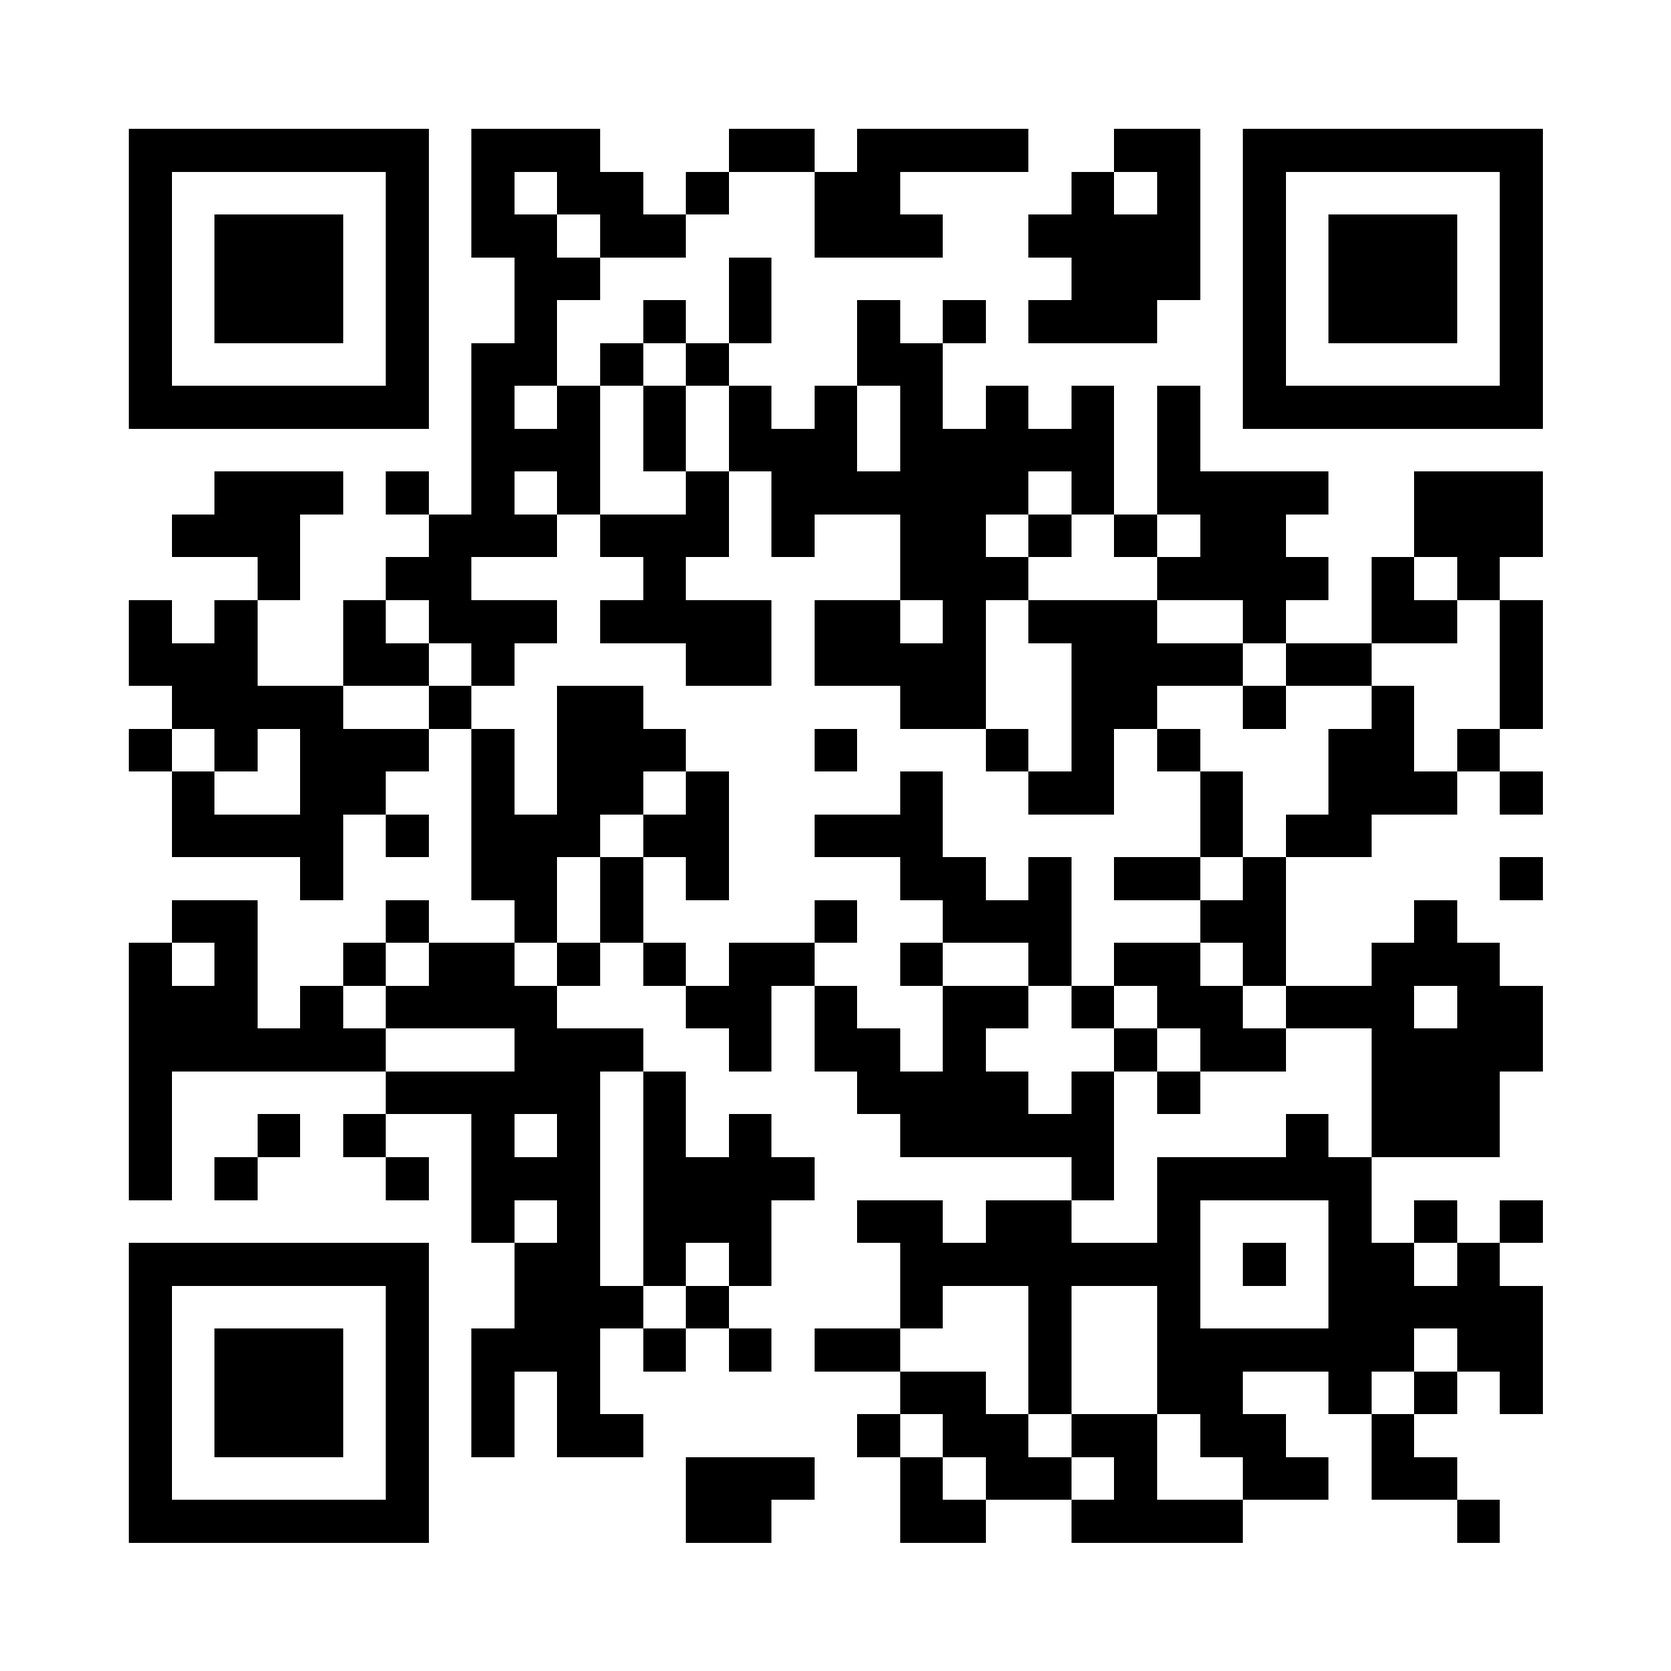
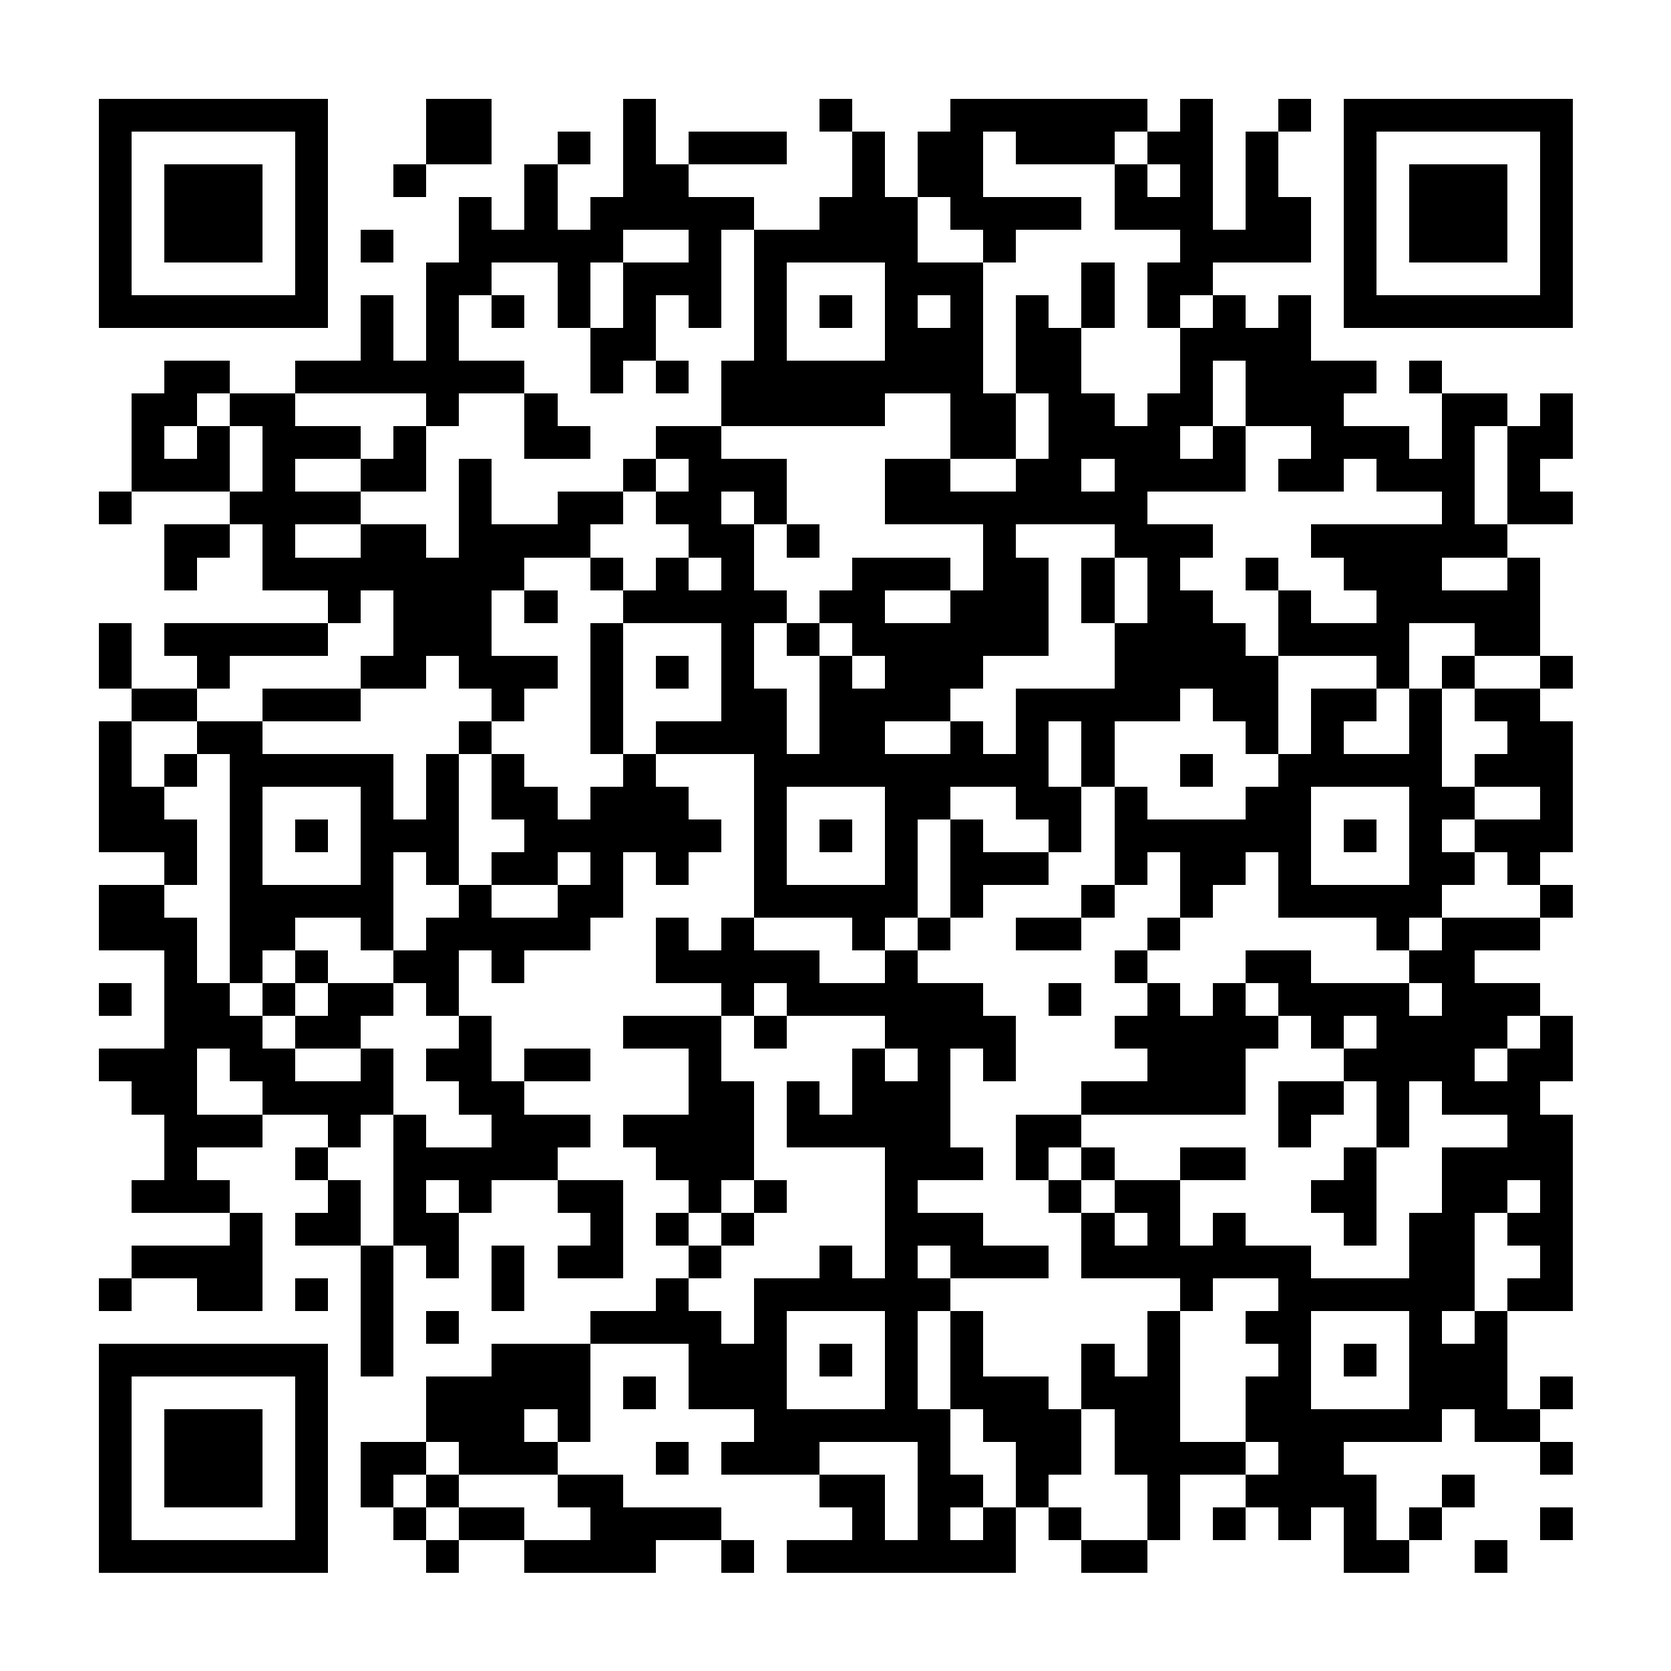
Lead with the mailing list, and land people on the actual sign-up box
Two things Juanito asked for, read properly this time. "That should be
kind of at the top and large" was about the page as much as the printed
signs — and with presales off, signing people up IS the job of this
page, so it had no business sitting fourth, below the price list and the
payment buttons. The gold button now comes straight after the header,
the only filled element above the fold. emailFirst in config.js puts it
back down if that turns out wrong at the booth.

The link also just dropped people at the top of juanitopascual.com/contact
and left them to scroll — the Email List Sign-up block is 59% down that
page. Linking the anchor lands them on the form. If he ever rebuilds the
site and that id stops matching, the link behaves exactly as it did
before, so this can only help.

Audited every tappable thing while in here: all seven are 47px or taller
against a 44px floor, no dead or placeholder hrefs, every outbound link
resolves to the right destination, and the Copy button writes
jp@jpascual.com, flips to "Copied" and fires the toast. Decoded all six
QR images rather than trusting the encoder — each one scans to the URL it
should. Only the email code changed; booth and venmo are byte-identical,
and the already-printed email code still works, it just lands higher.

diff --git a/print/index.html b/print/index.html
@@ -203,13 +203,13 @@
       </div>
     </section>
     <section class="code">
-      <div class="qrbox"><svg xmlns="http://www.w3.org/2000/svg" width="1000" height="1000" viewBox="0 0 39 39" shape-rendering="crispEdges"><path fill="#FFFFFF" d="M0 0h39v39H0z"/><path stroke="#000000" d="M3 3.5h7m1 0h3m3 0h2m1 0h4m2 0h2m1 0h7M3 4.5h1m5 0h1m1 0h1m1 0h2m1 0h1m2 0h2m4 0h1m1 0h1m1 0h1m5 0h1M3 5.5h1m1 0h3m1 0h1m1 0h2m1 0h2m3 0h3m2 0h4m1 0h1m1 0h3m1 0h1M3 6.5h1m1 0h3m1 0h1m2 0h2m3 0h1m7 0h3m1 0h1m1 0h3m1 0h1M3 7.5h1m1 0h3m1 0h1m2 0h1m2 0h1m1 0h1m2 0h1m1 0h1m1 0h3m2 0h1m1 0h3m1 0h1M3 8.5h1m5 0h1m1 0h2m1 0h1m1 0h1m3 0h2m7 0h1m5 0h1M3 9.5h7m1 0h1m1 0h1m1 0h1m1 0h1m1 0h1m1 0h1m1 0h1m1 0h1m1 0h1m1 0h7M11 10.5h3m1 0h1m1 0h3m1 0h5m1 0h1M5 11.5h3m1 0h1m1 0h1m1 0h1m2 0h1m1 0h6m1 0h1m1 0h4m2 0h3M4 12.5h3m3 0h3m1 0h3m1 0h1m2 0h2m1 0h1m1 0h1m1 0h2m3 0h3M6 13.5h1m2 0h2m4 0h1m5 0h3m3 0h4m1 0h1m1 0h1M3 14.5h1m1 0h1m2 0h1m1 0h3m1 0h4m1 0h2m1 0h1m1 0h3m2 0h1m2 0h2m1 0h1M3 15.5h3m2 0h2m1 0h1m4 0h2m1 0h4m2 0h4m1 0h2m3 0h1M4 16.5h4m2 0h1m2 0h2m6 0h2m2 0h2m2 0h1m2 0h1m2 0h1M3 17.5h1m1 0h1m1 0h3m1 0h1m1 0h3m3 0h1m3 0h1m1 0h1m1 0h1m3 0h2m1 0h1M4 18.5h1m2 0h2m2 0h1m1 0h2m1 0h1m4 0h1m2 0h2m2 0h1m2 0h3m1 0h1M4 19.5h4m1 0h1m1 0h3m1 0h2m2 0h3m6 0h1m1 0h2M7 20.5h1m3 0h2m1 0h1m1 0h1m4 0h2m1 0h1m1 0h2m1 0h1m5 0h1M4 21.5h2m3 0h1m2 0h1m1 0h1m4 0h1m2 0h3m3 0h2m3 0h1M3 22.5h1m1 0h1m2 0h1m1 0h2m1 0h1m1 0h1m1 0h2m2 0h1m2 0h1m1 0h2m1 0h1m2 0h3M3 23.5h3m1 0h1m1 0h4m3 0h2m1 0h1m2 0h2m1 0h1m1 0h2m1 0h3m1 0h2M3 24.5h6m3 0h3m2 0h1m1 0h2m1 0h1m3 0h1m1 0h2m2 0h4M3 25.5h1m5 0h5m1 0h1m4 0h4m1 0h1m1 0h1m4 0h3M3 26.5h1m2 0h1m1 0h1m2 0h1m1 0h1m1 0h1m1 0h1m3 0h5m4 0h1m1 0h3M3 27.5h1m1 0h1m3 0h1m1 0h3m1 0h4m6 0h1m1 0h5M11 28.5h1m1 0h1m1 0h3m2 0h2m1 0h2m2 0h1m3 0h1m1 0h1m1 0h1M3 29.5h7m2 0h2m1 0h1m1 0h1m3 0h7m1 0h1m1 0h2m1 0h1M3 30.5h1m5 0h1m2 0h3m1 0h1m4 0h1m2 0h1m2 0h1m3 0h5M3 31.5h1m1 0h3m1 0h1m1 0h3m1 0h1m1 0h1m1 0h2m3 0h1m2 0h6m1 0h2M3 32.5h1m1 0h3m1 0h1m1 0h1m1 0h1m7 0h2m1 0h1m2 0h2m2 0h1m1 0h1m1 0h1M3 33.5h1m1 0h3m1 0h1m1 0h1m1 0h2m5 0h1m1 0h2m1 0h2m1 0h2m2 0h1M3 34.5h1m5 0h1m6 0h3m2 0h1m1 0h2m1 0h1m2 0h2m1 0h2M3 35.5h7m6 0h2m3 0h2m2 0h4m5 0h1"/></svg>
+      <div class="qrbox"><svg xmlns="http://www.w3.org/2000/svg" width="1000" height="1000" viewBox="0 0 51 51" shape-rendering="crispEdges"><path fill="#FFFFFF" d="M0 0h51v51H0z"/><path stroke="#000000" d="M3 3.5h7m3 0h2m4 0h1m5 0h1m3 0h6m1 0h1m2 0h1m1 0h7M3 4.5h1m5 0h1m3 0h2m2 0h1m1 0h1m1 0h3m2 0h1m1 0h2m1 0h3m1 0h2m1 0h1m2 0h1m5 0h1M3 5.5h1m1 0h3m1 0h1m2 0h1m3 0h1m2 0h2m5 0h1m1 0h2m4 0h1m1 0h1m1 0h1m2 0h1m1 0h3m1 0h1M3 6.5h1m1 0h3m1 0h1m4 0h1m1 0h1m1 0h5m2 0h3m1 0h4m1 0h3m1 0h2m1 0h1m1 0h3m1 0h1M3 7.5h1m1 0h3m1 0h1m1 0h1m2 0h5m2 0h1m1 0h5m2 0h1m5 0h4m1 0h1m1 0h3m1 0h1M3 8.5h1m5 0h1m3 0h2m2 0h1m1 0h3m1 0h1m3 0h3m3 0h1m1 0h2m4 0h1m5 0h1M3 9.5h7m1 0h1m1 0h1m1 0h1m1 0h1m1 0h1m1 0h1m1 0h1m1 0h1m1 0h1m1 0h1m1 0h1m1 0h1m1 0h1m1 0h1m1 0h1m1 0h7M11 10.5h1m1 0h1m4 0h2m3 0h1m3 0h3m1 0h2m3 0h4M5 11.5h2m2 0h7m2 0h1m1 0h1m1 0h8m1 0h2m3 0h1m1 0h4m1 0h1M4 12.5h2m1 0h2m4 0h1m2 0h1m5 0h5m2 0h2m1 0h2m1 0h2m1 0h3m3 0h2m1 0h1M4 13.5h1m1 0h1m1 0h3m1 0h1m3 0h2m2 0h2m7 0h2m1 0h4m1 0h1m2 0h3m1 0h1m1 0h2M4 14.5h3m1 0h1m2 0h2m1 0h1m4 0h1m1 0h3m3 0h2m2 0h2m1 0h4m1 0h2m1 0h3m1 0h1M3 15.5h1m3 0h4m3 0h1m2 0h2m1 0h2m1 0h1m3 0h8m9 0h1m1 0h2M5 16.5h2m1 0h1m2 0h2m1 0h4m3 0h2m1 0h1m5 0h1m3 0h3m3 0h6M5 17.5h1m2 0h8m2 0h1m1 0h1m1 0h1m3 0h3m1 0h2m1 0h1m1 0h1m2 0h1m2 0h3m2 0h1M10 18.5h1m1 0h3m1 0h1m2 0h5m1 0h2m2 0h3m1 0h1m1 0h2m2 0h1m2 0h5M3 19.5h1m1 0h5m2 0h3m3 0h1m3 0h1m1 0h1m1 0h6m2 0h4m1 0h4m2 0h2M3 20.5h1m2 0h1m4 0h2m1 0h3m1 0h1m1 0h1m1 0h1m2 0h1m1 0h3m4 0h5m3 0h1m1 0h1m2 0h1M4 21.5h2m2 0h3m4 0h1m2 0h1m3 0h2m1 0h4m2 0h5m1 0h2m1 0h2m1 0h1m1 0h2M3 22.5h1m2 0h2m6 0h1m3 0h1m1 0h4m1 0h2m2 0h1m1 0h1m1 0h1m4 0h1m1 0h1m2 0h1m2 0h2M3 23.5h1m1 0h1m1 0h5m1 0h1m1 0h1m3 0h1m3 0h9m1 0h1m2 0h1m2 0h5m1 0h3M3 24.5h2m2 0h1m3 0h1m1 0h1m1 0h2m1 0h3m2 0h1m3 0h2m2 0h2m1 0h1m3 0h2m3 0h2m2 0h1M3 25.5h3m1 0h1m1 0h1m1 0h3m2 0h6m1 0h1m1 0h1m1 0h1m1 0h1m2 0h1m1 0h6m1 0h1m1 0h1m1 0h3M5 26.5h1m1 0h1m3 0h1m1 0h1m1 0h2m1 0h1m1 0h1m2 0h1m3 0h1m1 0h3m2 0h1m1 0h2m1 0h1m3 0h2m1 0h1M3 27.5h2m2 0h5m2 0h1m2 0h2m4 0h5m1 0h1m3 0h1m2 0h1m2 0h5m3 0h1M3 28.5h3m1 0h2m2 0h1m1 0h5m2 0h1m1 0h1m3 0h1m1 0h1m2 0h2m2 0h1m6 0h1m1 0h3M5 29.5h1m1 0h1m1 0h1m2 0h2m1 0h1m4 0h5m2 0h1m6 0h1m3 0h2m3 0h2M3 30.5h1m1 0h2m1 0h1m1 0h2m1 0h1m8 0h1m1 0h6m2 0h1m2 0h1m1 0h1m1 0h4m1 0h3M5 31.5h3m1 0h2m3 0h1m4 0h3m1 0h1m3 0h4m3 0h5m1 0h1m1 0h4m1 0h1M3 32.5h3m1 0h2m2 0h1m1 0h2m1 0h2m3 0h1m4 0h1m1 0h1m1 0h1m4 0h3m3 0h4m1 0h2M4 33.5h2m2 0h4m2 0h2m5 0h2m1 0h1m1 0h3m4 0h5m1 0h2m1 0h1m1 0h3M5 34.5h3m2 0h1m1 0h1m2 0h3m1 0h4m1 0h5m2 0h2m6 0h1m2 0h1m3 0h2M5 35.5h1m3 0h1m2 0h5m3 0h3m4 0h3m1 0h1m1 0h1m2 0h2m3 0h1m2 0h4M4 36.5h3m3 0h1m1 0h1m1 0h1m2 0h2m2 0h1m1 0h1m3 0h1m4 0h1m1 0h2m4 0h2m2 0h2m1 0h1M7 37.5h1m1 0h2m1 0h2m4 0h1m1 0h1m1 0h1m4 0h3m3 0h1m1 0h1m1 0h1m3 0h1m1 0h2m1 0h2M4 38.5h4m3 0h1m1 0h1m1 0h1m1 0h2m2 0h1m3 0h1m1 0h1m1 0h3m1 0h7m3 0h2m2 0h1M3 39.5h1m2 0h2m1 0h1m1 0h1m3 0h1m4 0h1m2 0h6m7 0h1m2 0h6m1 0h2M11 40.5h1m1 0h1m4 0h4m1 0h1m3 0h1m1 0h1m5 0h1m2 0h2m3 0h1m1 0h1M3 41.5h7m1 0h1m3 0h3m3 0h3m1 0h1m1 0h1m1 0h1m3 0h1m1 0h1m3 0h1m1 0h1m1 0h3M3 42.5h1m5 0h1m3 0h5m1 0h1m1 0h3m3 0h1m1 0h3m1 0h3m2 0h2m3 0h3m1 0h1M3 43.5h1m1 0h3m1 0h1m3 0h3m1 0h1m5 0h6m1 0h3m1 0h2m2 0h6m1 0h2M3 44.5h1m1 0h3m1 0h1m1 0h2m1 0h3m3 0h1m1 0h3m3 0h1m2 0h2m1 0h4m1 0h2m6 0h1M3 45.5h1m1 0h3m1 0h1m1 0h1m1 0h1m3 0h2m6 0h2m1 0h2m1 0h1m3 0h1m2 0h4m2 0h1M3 46.5h1m5 0h1m2 0h1m1 0h2m2 0h4m4 0h1m1 0h1m1 0h1m1 0h1m2 0h1m1 0h1m1 0h1m1 0h1m1 0h1m3 0h1M3 47.5h7m3 0h1m2 0h4m2 0h1m1 0h7m2 0h2m6 0h2m2 0h1"/></svg>
 </div>
       <div class="meta">
         <h2>Join the Mailing List</h2>
         <p class="subline">Tour dates and new releases</p>
         <p class="note">Goes straight to the sign-up on juanitopascual.com.</p>
-        <p class="url">juanitopascual.com/contact</p>
+        <p class="url">juanitopascual.com/contact#mailing_list_feature_436168</p>
         <div class="dl">
           <a class="btn" href="email-print.png" download>Download image</a>
           <a class="btn ghost" href="email.svg" download>For a print shop</a>
@@ -259,13 +259,13 @@
       <h1>Join the Mailing List</h1>
       <p class="sub">Tour dates and new releases</p>
     </div>
-    <div class="qr"><svg xmlns="http://www.w3.org/2000/svg" width="1000" height="1000" viewBox="0 0 39 39" shape-rendering="crispEdges"><path fill="#FFFFFF" d="M0 0h39v39H0z"/><path stroke="#000000" d="M3 3.5h7m1 0h3m3 0h2m1 0h4m2 0h2m1 0h7M3 4.5h1m5 0h1m1 0h1m1 0h2m1 0h1m2 0h2m4 0h1m1 0h1m1 0h1m5 0h1M3 5.5h1m1 0h3m1 0h1m1 0h2m1 0h2m3 0h3m2 0h4m1 0h1m1 0h3m1 0h1M3 6.5h1m1 0h3m1 0h1m2 0h2m3 0h1m7 0h3m1 0h1m1 0h3m1 0h1M3 7.5h1m1 0h3m1 0h1m2 0h1m2 0h1m1 0h1m2 0h1m1 0h1m1 0h3m2 0h1m1 0h3m1 0h1M3 8.5h1m5 0h1m1 0h2m1 0h1m1 0h1m3 0h2m7 0h1m5 0h1M3 9.5h7m1 0h1m1 0h1m1 0h1m1 0h1m1 0h1m1 0h1m1 0h1m1 0h1m1 0h1m1 0h7M11 10.5h3m1 0h1m1 0h3m1 0h5m1 0h1M5 11.5h3m1 0h1m1 0h1m1 0h1m2 0h1m1 0h6m1 0h1m1 0h4m2 0h3M4 12.5h3m3 0h3m1 0h3m1 0h1m2 0h2m1 0h1m1 0h1m1 0h2m3 0h3M6 13.5h1m2 0h2m4 0h1m5 0h3m3 0h4m1 0h1m1 0h1M3 14.5h1m1 0h1m2 0h1m1 0h3m1 0h4m1 0h2m1 0h1m1 0h3m2 0h1m2 0h2m1 0h1M3 15.5h3m2 0h2m1 0h1m4 0h2m1 0h4m2 0h4m1 0h2m3 0h1M4 16.5h4m2 0h1m2 0h2m6 0h2m2 0h2m2 0h1m2 0h1m2 0h1M3 17.5h1m1 0h1m1 0h3m1 0h1m1 0h3m3 0h1m3 0h1m1 0h1m1 0h1m3 0h2m1 0h1M4 18.5h1m2 0h2m2 0h1m1 0h2m1 0h1m4 0h1m2 0h2m2 0h1m2 0h3m1 0h1M4 19.5h4m1 0h1m1 0h3m1 0h2m2 0h3m6 0h1m1 0h2M7 20.5h1m3 0h2m1 0h1m1 0h1m4 0h2m1 0h1m1 0h2m1 0h1m5 0h1M4 21.5h2m3 0h1m2 0h1m1 0h1m4 0h1m2 0h3m3 0h2m3 0h1M3 22.5h1m1 0h1m2 0h1m1 0h2m1 0h1m1 0h1m1 0h2m2 0h1m2 0h1m1 0h2m1 0h1m2 0h3M3 23.5h3m1 0h1m1 0h4m3 0h2m1 0h1m2 0h2m1 0h1m1 0h2m1 0h3m1 0h2M3 24.5h6m3 0h3m2 0h1m1 0h2m1 0h1m3 0h1m1 0h2m2 0h4M3 25.5h1m5 0h5m1 0h1m4 0h4m1 0h1m1 0h1m4 0h3M3 26.5h1m2 0h1m1 0h1m2 0h1m1 0h1m1 0h1m1 0h1m3 0h5m4 0h1m1 0h3M3 27.5h1m1 0h1m3 0h1m1 0h3m1 0h4m6 0h1m1 0h5M11 28.5h1m1 0h1m1 0h3m2 0h2m1 0h2m2 0h1m3 0h1m1 0h1m1 0h1M3 29.5h7m2 0h2m1 0h1m1 0h1m3 0h7m1 0h1m1 0h2m1 0h1M3 30.5h1m5 0h1m2 0h3m1 0h1m4 0h1m2 0h1m2 0h1m3 0h5M3 31.5h1m1 0h3m1 0h1m1 0h3m1 0h1m1 0h1m1 0h2m3 0h1m2 0h6m1 0h2M3 32.5h1m1 0h3m1 0h1m1 0h1m1 0h1m7 0h2m1 0h1m2 0h2m2 0h1m1 0h1m1 0h1M3 33.5h1m1 0h3m1 0h1m1 0h1m1 0h2m5 0h1m1 0h2m1 0h2m1 0h2m2 0h1M3 34.5h1m5 0h1m6 0h3m2 0h1m1 0h2m1 0h1m2 0h2m1 0h2M3 35.5h7m6 0h2m3 0h2m2 0h4m5 0h1"/></svg>
+    <div class="qr"><svg xmlns="http://www.w3.org/2000/svg" width="1000" height="1000" viewBox="0 0 51 51" shape-rendering="crispEdges"><path fill="#FFFFFF" d="M0 0h51v51H0z"/><path stroke="#000000" d="M3 3.5h7m3 0h2m4 0h1m5 0h1m3 0h6m1 0h1m2 0h1m1 0h7M3 4.5h1m5 0h1m3 0h2m2 0h1m1 0h1m1 0h3m2 0h1m1 0h2m1 0h3m1 0h2m1 0h1m2 0h1m5 0h1M3 5.5h1m1 0h3m1 0h1m2 0h1m3 0h1m2 0h2m5 0h1m1 0h2m4 0h1m1 0h1m1 0h1m2 0h1m1 0h3m1 0h1M3 6.5h1m1 0h3m1 0h1m4 0h1m1 0h1m1 0h5m2 0h3m1 0h4m1 0h3m1 0h2m1 0h1m1 0h3m1 0h1M3 7.5h1m1 0h3m1 0h1m1 0h1m2 0h5m2 0h1m1 0h5m2 0h1m5 0h4m1 0h1m1 0h3m1 0h1M3 8.5h1m5 0h1m3 0h2m2 0h1m1 0h3m1 0h1m3 0h3m3 0h1m1 0h2m4 0h1m5 0h1M3 9.5h7m1 0h1m1 0h1m1 0h1m1 0h1m1 0h1m1 0h1m1 0h1m1 0h1m1 0h1m1 0h1m1 0h1m1 0h1m1 0h1m1 0h1m1 0h1m1 0h7M11 10.5h1m1 0h1m4 0h2m3 0h1m3 0h3m1 0h2m3 0h4M5 11.5h2m2 0h7m2 0h1m1 0h1m1 0h8m1 0h2m3 0h1m1 0h4m1 0h1M4 12.5h2m1 0h2m4 0h1m2 0h1m5 0h5m2 0h2m1 0h2m1 0h2m1 0h3m3 0h2m1 0h1M4 13.5h1m1 0h1m1 0h3m1 0h1m3 0h2m2 0h2m7 0h2m1 0h4m1 0h1m2 0h3m1 0h1m1 0h2M4 14.5h3m1 0h1m2 0h2m1 0h1m4 0h1m1 0h3m3 0h2m2 0h2m1 0h4m1 0h2m1 0h3m1 0h1M3 15.5h1m3 0h4m3 0h1m2 0h2m1 0h2m1 0h1m3 0h8m9 0h1m1 0h2M5 16.5h2m1 0h1m2 0h2m1 0h4m3 0h2m1 0h1m5 0h1m3 0h3m3 0h6M5 17.5h1m2 0h8m2 0h1m1 0h1m1 0h1m3 0h3m1 0h2m1 0h1m1 0h1m2 0h1m2 0h3m2 0h1M10 18.5h1m1 0h3m1 0h1m2 0h5m1 0h2m2 0h3m1 0h1m1 0h2m2 0h1m2 0h5M3 19.5h1m1 0h5m2 0h3m3 0h1m3 0h1m1 0h1m1 0h6m2 0h4m1 0h4m2 0h2M3 20.5h1m2 0h1m4 0h2m1 0h3m1 0h1m1 0h1m1 0h1m2 0h1m1 0h3m4 0h5m3 0h1m1 0h1m2 0h1M4 21.5h2m2 0h3m4 0h1m2 0h1m3 0h2m1 0h4m2 0h5m1 0h2m1 0h2m1 0h1m1 0h2M3 22.5h1m2 0h2m6 0h1m3 0h1m1 0h4m1 0h2m2 0h1m1 0h1m1 0h1m4 0h1m1 0h1m2 0h1m2 0h2M3 23.5h1m1 0h1m1 0h5m1 0h1m1 0h1m3 0h1m3 0h9m1 0h1m2 0h1m2 0h5m1 0h3M3 24.5h2m2 0h1m3 0h1m1 0h1m1 0h2m1 0h3m2 0h1m3 0h2m2 0h2m1 0h1m3 0h2m3 0h2m2 0h1M3 25.5h3m1 0h1m1 0h1m1 0h3m2 0h6m1 0h1m1 0h1m1 0h1m1 0h1m2 0h1m1 0h6m1 0h1m1 0h1m1 0h3M5 26.5h1m1 0h1m3 0h1m1 0h1m1 0h2m1 0h1m1 0h1m2 0h1m3 0h1m1 0h3m2 0h1m1 0h2m1 0h1m3 0h2m1 0h1M3 27.5h2m2 0h5m2 0h1m2 0h2m4 0h5m1 0h1m3 0h1m2 0h1m2 0h5m3 0h1M3 28.5h3m1 0h2m2 0h1m1 0h5m2 0h1m1 0h1m3 0h1m1 0h1m2 0h2m2 0h1m6 0h1m1 0h3M5 29.5h1m1 0h1m1 0h1m2 0h2m1 0h1m4 0h5m2 0h1m6 0h1m3 0h2m3 0h2M3 30.5h1m1 0h2m1 0h1m1 0h2m1 0h1m8 0h1m1 0h6m2 0h1m2 0h1m1 0h1m1 0h4m1 0h3M5 31.5h3m1 0h2m3 0h1m4 0h3m1 0h1m3 0h4m3 0h5m1 0h1m1 0h4m1 0h1M3 32.5h3m1 0h2m2 0h1m1 0h2m1 0h2m3 0h1m4 0h1m1 0h1m1 0h1m4 0h3m3 0h4m1 0h2M4 33.5h2m2 0h4m2 0h2m5 0h2m1 0h1m1 0h3m4 0h5m1 0h2m1 0h1m1 0h3M5 34.5h3m2 0h1m1 0h1m2 0h3m1 0h4m1 0h5m2 0h2m6 0h1m2 0h1m3 0h2M5 35.5h1m3 0h1m2 0h5m3 0h3m4 0h3m1 0h1m1 0h1m2 0h2m3 0h1m2 0h4M4 36.5h3m3 0h1m1 0h1m1 0h1m2 0h2m2 0h1m1 0h1m3 0h1m4 0h1m1 0h2m4 0h2m2 0h2m1 0h1M7 37.5h1m1 0h2m1 0h2m4 0h1m1 0h1m1 0h1m4 0h3m3 0h1m1 0h1m1 0h1m3 0h1m1 0h2m1 0h2M4 38.5h4m3 0h1m1 0h1m1 0h1m1 0h2m2 0h1m3 0h1m1 0h1m1 0h3m1 0h7m3 0h2m2 0h1M3 39.5h1m2 0h2m1 0h1m1 0h1m3 0h1m4 0h1m2 0h6m7 0h1m2 0h6m1 0h2M11 40.5h1m1 0h1m4 0h4m1 0h1m3 0h1m1 0h1m5 0h1m2 0h2m3 0h1m1 0h1M3 41.5h7m1 0h1m3 0h3m3 0h3m1 0h1m1 0h1m1 0h1m3 0h1m1 0h1m3 0h1m1 0h1m1 0h3M3 42.5h1m5 0h1m3 0h5m1 0h1m1 0h3m3 0h1m1 0h3m1 0h3m2 0h2m3 0h3m1 0h1M3 43.5h1m1 0h3m1 0h1m3 0h3m1 0h1m5 0h6m1 0h3m1 0h2m2 0h6m1 0h2M3 44.5h1m1 0h3m1 0h1m1 0h2m1 0h3m3 0h1m1 0h3m3 0h1m2 0h2m1 0h4m1 0h2m6 0h1M3 45.5h1m1 0h3m1 0h1m1 0h1m1 0h1m3 0h2m6 0h2m1 0h2m1 0h1m3 0h1m2 0h4m2 0h1M3 46.5h1m5 0h1m2 0h1m1 0h2m2 0h4m4 0h1m1 0h1m1 0h1m1 0h1m2 0h1m1 0h1m1 0h1m1 0h1m1 0h1m3 0h1M3 47.5h7m3 0h1m2 0h4m2 0h1m1 0h7m2 0h2m6 0h2m2 0h1"/></svg>
 </div>
     <div class="foot">
       <p class="scan">Scan with your phone camera</p>
       <p class="who">Juanito Pascual</p>
       
-      <p class="link">juanitopascual.com/contact</p>
+      <p class="link">juanitopascual.com/contact#mailing_list_feature_436168</p>
     </div>
   </div>
   <div class="sheet tent">

diff --git a/app.js b/app.js
@@ -93,6 +93,25 @@
   if (S.note) html += '<p class="sub">' + S.note + '</p>';
   html += '</header><hr class="rule">';
 
+  /* --- Email list --------------------------------------------------------
+     Presales are off, so signing people up IS the job of this page. By
+     default this block sits directly under the header, above the prices,
+     because someone scanning at a loud booth reads about one thing. Set
+     emailFirst:false in config.js to drop it back below the payment rows. */
+  function emailBlock() {
+    if (!live(S.emailUrl)) return '';
+    return '<p class="label">' + (S.emailHeading || 'Stay in touch') + '</p>' +
+      '<div class="stack">' +
+      '<a class="btn primary" href="' + esc(S.emailUrl) + '" target="_blank" rel="noopener">' +
+      '<span class="ico" aria-hidden="true">' + ICONS.mail + '</span>' +
+      '<span class="txt"><b>' + (S.emailLabel || 'Join the mailing list') + '</b>' +
+      (S.emailSub ? '<small>' + S.emailSub + '</small>' : '') + '</span>' +
+      '<span class="arrow" aria-hidden="true">&rsaquo;</span></a></div><hr class="rule">';
+  }
+
+  var emailOnTop = S.emailFirst !== false;
+  if (emailOnTop) html += emailBlock();
+
   /* --- Merch menu -------------------------------------------------------- */
   var merch = S.merch || [];
   if (merch.length) {
@@ -154,15 +173,7 @@
     html += '</div><hr class="rule">';
   }
 
-  /* --- Email list -------------------------------------------------------- */
-  if (live(S.emailUrl)) {
-    html += '<p class="label">Stay in touch</p><div class="stack">' +
-      '<a class="btn primary" href="' + esc(S.emailUrl) + '" target="_blank" rel="noopener">' +
-      '<span class="ico" aria-hidden="true">' + ICONS.mail + '</span>' +
-      '<span class="txt"><b>' + (S.emailLabel || 'Join the mailing list') + '</b>' +
-      (S.emailSub ? '<small>' + S.emailSub + '</small>' : '') + '</span>' +
-      '<span class="arrow" aria-hidden="true">&rsaquo;</span></a></div><hr class="rule">';
-  }
+  if (!emailOnTop) html += emailBlock();
 
   /* --- Secondary links --------------------------------------------------- */
   var links = (S.links || []).filter(function (l) { return live(l.url); });

diff --git a/config.js b/config.js
@@ -126,11 +126,24 @@ window.SITE = {
   ],
 
   /* --- Email list --------------------------------------------
-     His own site already has an "Email List Sign-up" section,
-     so this points there. No form to build or maintain.      */
-  emailUrl: "https://juanitopascual.com/contact",
+     His own site already has an "Email List Sign-up" section, so this
+     points there. No form to build or maintain.
+
+     The #mailing_list_feature_436168 on the end jumps straight down to the
+     sign-up box, which otherwise sits a long way down that page. If he ever
+     rebuilds juanitopascual.com that tag may stop matching, and the link
+     just lands at the top of the contact page like it used to — nothing
+     breaks. Delete from the # onward to go back to that.          */
+  emailUrl: "https://juanitopascual.com/contact#mailing_list_feature_436168",
   emailLabel: "Join the mailing list",
   emailSub: "Tour dates and new releases",
+
+  /* Where the sign-up sits on the page.
+       true   at the TOP, above the prices — right while collecting
+              emails is the main goal of the night
+       false  back down below the payment buttons                  */
+  emailFirst: true,
+  emailHeading: "Stay in touch",
 
   /* --- Secondary links (optional) ---------------------------- */
   links: [
@@ -162,7 +175,7 @@ window.SITE = {
       { file: "email", label: "Join the Mailing List",
         sub: "Tour dates and new releases",
         note: "Goes straight to the sign-up on juanitopascual.com.",
-        url: "https://juanitopascual.com/contact" },
+        url: "https://juanitopascual.com/contact#mailing_list_feature_436168" },
       { file: "venmo", label: "Pay by Venmo",
         sub: "@Juanito-Pascual",
         note: "Opens Venmo so someone can pay you directly.",
